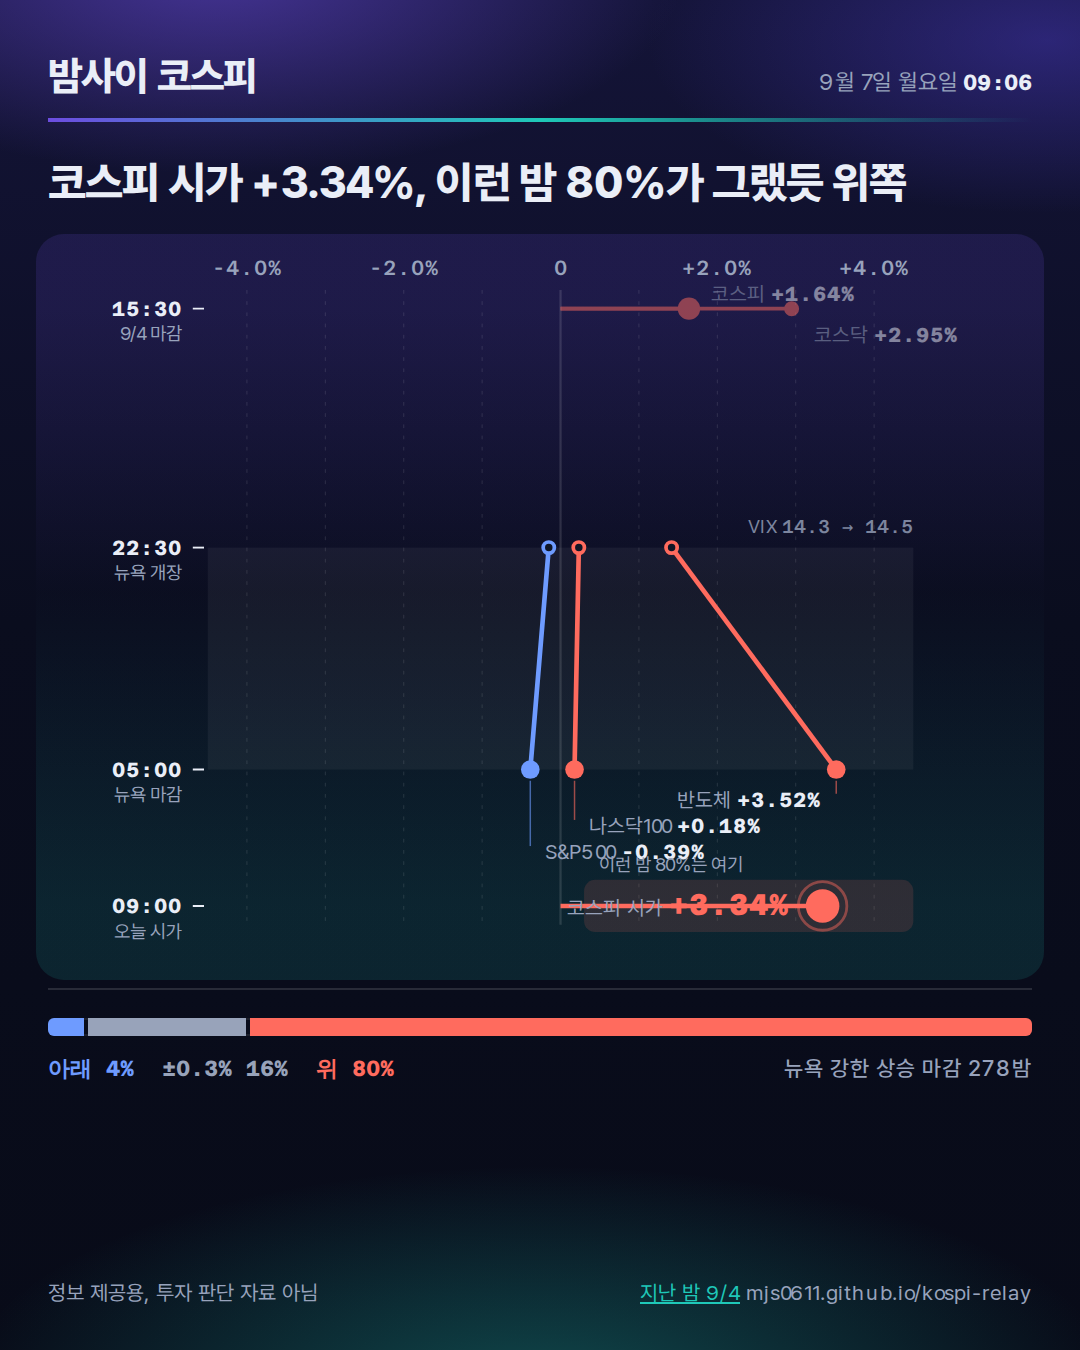
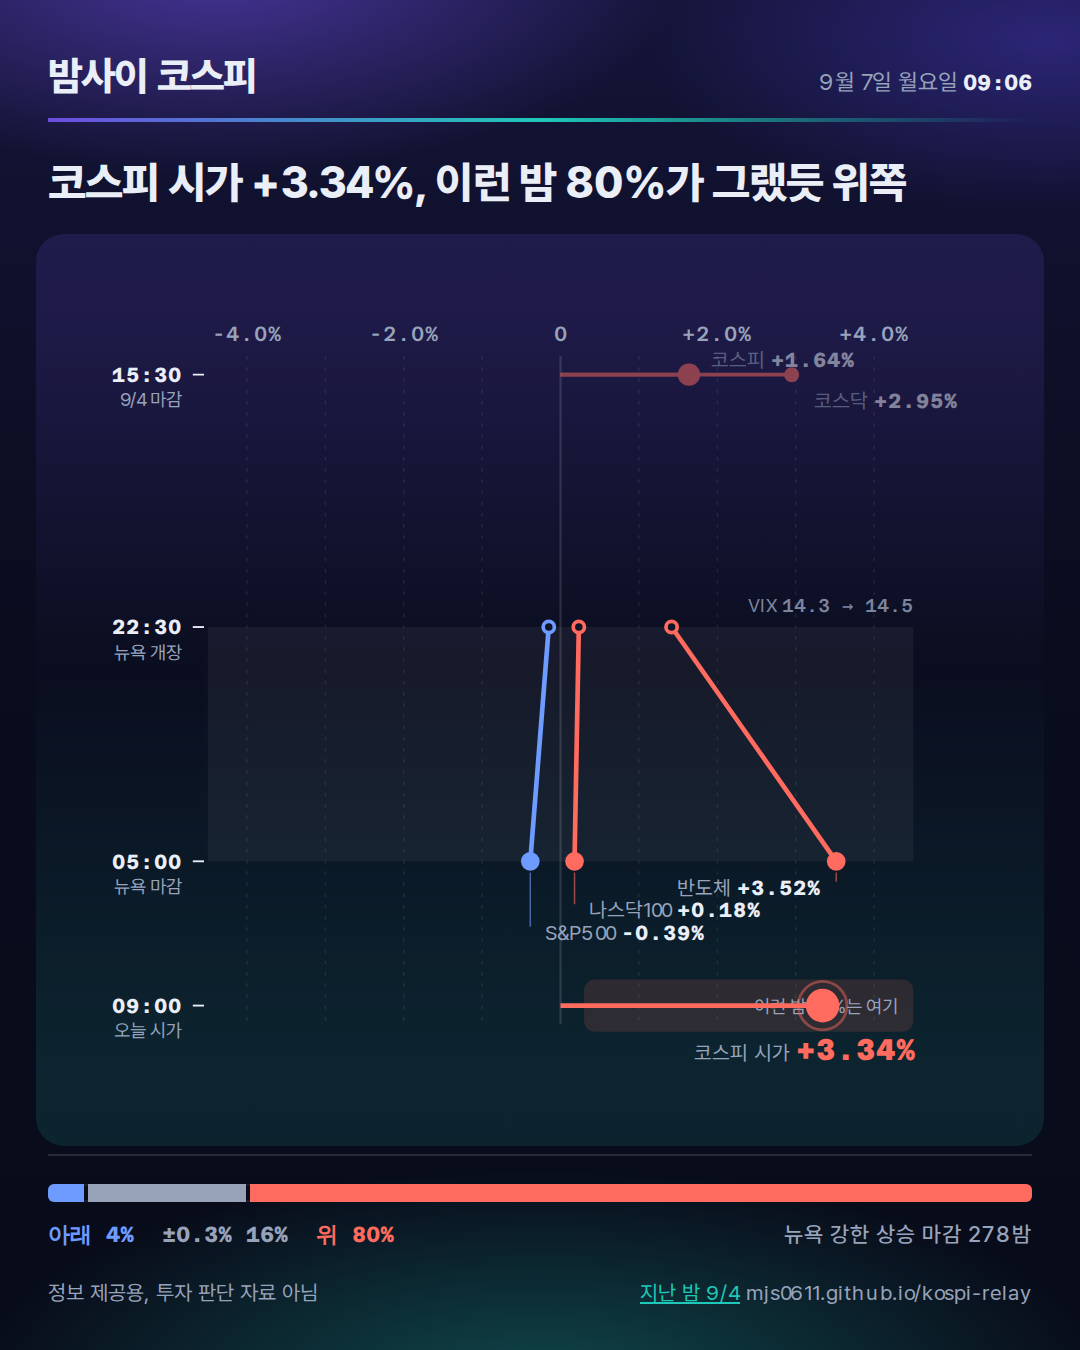
deploy: 3488b50c1c83725fb019813e3a68bd6f21e3e5a4

diff --git a/2026-09-07/index.html b/2026-09-07/index.html
@@ -25,7 +25,7 @@ h1{font-size:20px;font-weight:800;letter-spacing:-.02em;margin:0}
 .stamp{font-size:11.5px;color:var(--muted);text-align:right;line-height:1.5;letter-spacing:-.01em;white-space:nowrap}.stamp b{font-family:var(--mono);color:var(--ink);font-weight:700;font-size:11px}
 /* ★ 시간축 광원 — SVG 세로축이 곧 시간이다(위 15:30 전일 마감 → 아래 09:00 오늘 시가).
    축은 SVG 높이의 10~90% 구간(sy가 40..H-40으로 매핑)이라 스톱을 거기 맞췄다. 장식이 아니라 제목 */
-.chart{margin:10px -6px 0;border-radius:14px;overflow:hidden;
+.chart{flex:1;display:flex;align-items:center;margin:10px -6px 0;border-radius:14px;overflow:hidden;
 background:linear-gradient(180deg,rgba(108,77,224,.16) 10%,rgba(24,29,58,.05) 48%,rgba(31,200,184,.13) 90%)}
 svg{width:100%;height:auto;display:block}
 /* 헤드라인. 카드의 질문 또는 답, 한 문장. 색은 차트가 말한다. 글은 잉크 한 색 */
@@ -39,33 +39,33 @@ footer a{color:var(--dawn)}
 </style></head><body><div class="sheet">
 <header><h1>밤사이 코스피</h1><div class="stamp">9월 7일 월요일 <b>09:06</b></div></header>
 <p class="headline">코스피 시가 +3.34%, 이런 밤 80%가 그랬듯 위쪽</p>
-<div class="chart"><svg viewBox="0 0 540 400" xmlns="http://www.w3.org/2000/svg" font-family="var(--mono)" font-size="11">
-<line x1="113.0" y1="30" x2="113.0" y2="370" stroke="var(--rule)" stroke-width="0.5" stroke-dasharray="2 4"/>
+<div class="chart"><svg viewBox="0 0 540 418" xmlns="http://www.w3.org/2000/svg" font-family="var(--mono)" font-size="11">
+<line x1="113.0" y1="30" x2="113.0" y2="388" stroke="var(--rule)" stroke-width="0.5" stroke-dasharray="2 4"/>
 <text x="113.0" y="22" text-anchor="middle" fill="var(--muted)">-4.0%</text>
-<line x1="155.0" y1="30" x2="155.0" y2="370" stroke="var(--rule)" stroke-width="0.5" stroke-dasharray="2 4"/>
-<line x1="197.0" y1="30" x2="197.0" y2="370" stroke="var(--rule)" stroke-width="0.5" stroke-dasharray="2 4"/>
+<line x1="155.0" y1="30" x2="155.0" y2="388" stroke="var(--rule)" stroke-width="0.5" stroke-dasharray="2 4"/>
+<line x1="197.0" y1="30" x2="197.0" y2="388" stroke="var(--rule)" stroke-width="0.5" stroke-dasharray="2 4"/>
 <text x="197.0" y="22" text-anchor="middle" fill="var(--muted)">-2.0%</text>
-<line x1="239.0" y1="30" x2="239.0" y2="370" stroke="var(--rule)" stroke-width="0.5" stroke-dasharray="2 4"/>
-<line x1="281.0" y1="30" x2="281.0" y2="370" stroke="var(--rule)" stroke-width="1.2" />
+<line x1="239.0" y1="30" x2="239.0" y2="388" stroke="var(--rule)" stroke-width="0.5" stroke-dasharray="2 4"/>
+<line x1="281.0" y1="30" x2="281.0" y2="388" stroke="var(--rule)" stroke-width="1.2" />
 <text x="281.0" y="22" text-anchor="middle" fill="var(--muted)">0</text>
-<line x1="323.0" y1="30" x2="323.0" y2="370" stroke="var(--rule)" stroke-width="0.5" stroke-dasharray="2 4"/>
-<line x1="365.0" y1="30" x2="365.0" y2="370" stroke="var(--rule)" stroke-width="0.5" stroke-dasharray="2 4"/>
+<line x1="323.0" y1="30" x2="323.0" y2="388" stroke="var(--rule)" stroke-width="0.5" stroke-dasharray="2 4"/>
+<line x1="365.0" y1="30" x2="365.0" y2="388" stroke="var(--rule)" stroke-width="0.5" stroke-dasharray="2 4"/>
 <text x="365.0" y="22" text-anchor="middle" fill="var(--muted)">+2.0%</text>
-<line x1="407.0" y1="30" x2="407.0" y2="370" stroke="var(--rule)" stroke-width="0.5" stroke-dasharray="2 4"/>
-<line x1="449.0" y1="30" x2="449.0" y2="370" stroke="var(--rule)" stroke-width="0.5" stroke-dasharray="2 4"/>
+<line x1="407.0" y1="30" x2="407.0" y2="388" stroke="var(--rule)" stroke-width="0.5" stroke-dasharray="2 4"/>
+<line x1="449.0" y1="30" x2="449.0" y2="388" stroke="var(--rule)" stroke-width="0.5" stroke-dasharray="2 4"/>
 <text x="449.0" y="22" text-anchor="middle" fill="var(--muted)">+4.0%</text>
 <text x="78" y="44.0" text-anchor="end" fill="var(--ink)" font-weight="600">15:30</text>
 <text x="78" y="57.0" text-anchor="end" fill="var(--muted)" font-family="var(--sans)" font-size="10">9/4 마감</text>
 <line x1="84" y1="40.0" x2="90" y2="40.0" stroke="var(--ink)"/>
-<text x="78" y="172.0" text-anchor="end" fill="var(--ink)" font-weight="600">22:30</text>
-<text x="78" y="185.0" text-anchor="end" fill="var(--muted)" font-family="var(--sans)" font-size="10">뉴욕 개장</text>
-<line x1="84" y1="168.0" x2="90" y2="168.0" stroke="var(--ink)"/>
-<text x="78" y="290.9" text-anchor="end" fill="var(--ink)" font-weight="600">05:00</text>
-<text x="78" y="303.9" text-anchor="end" fill="var(--muted)" font-family="var(--sans)" font-size="10">뉴욕 마감</text>
-<line x1="84" y1="286.9" x2="90" y2="286.9" stroke="var(--ink)"/>
-<text x="78" y="364.0" text-anchor="end" fill="var(--ink)" font-weight="600">09:00</text>
-<text x="78" y="377.0" text-anchor="end" fill="var(--muted)" font-family="var(--sans)" font-size="10">오늘 시가</text>
-<line x1="84" y1="360.0" x2="90" y2="360.0" stroke="var(--ink)"/>
+<text x="78" y="179.2" text-anchor="end" fill="var(--ink)" font-weight="600">22:30</text>
+<text x="78" y="192.2" text-anchor="end" fill="var(--muted)" font-family="var(--sans)" font-size="10">뉴욕 개장</text>
+<line x1="84" y1="175.2" x2="90" y2="175.2" stroke="var(--ink)"/>
+<text x="78" y="304.7" text-anchor="end" fill="var(--ink)" font-weight="600">05:00</text>
+<text x="78" y="317.7" text-anchor="end" fill="var(--muted)" font-family="var(--sans)" font-size="10">뉴욕 마감</text>
+<line x1="84" y1="300.7" x2="90" y2="300.7" stroke="var(--ink)"/>
+<text x="78" y="382.0" text-anchor="end" fill="var(--ink)" font-weight="600">09:00</text>
+<text x="78" y="395.0" text-anchor="end" fill="var(--muted)" font-family="var(--sans)" font-size="10">오늘 시가</text>
+<line x1="84" y1="378.0" x2="90" y2="378.0" stroke="var(--ink)"/>
 <g opacity=".5">
 <line x1="281.0" y1="40.0" x2="404.8" y2="40.0" stroke="var(--up)" stroke-width="2"/>
 <circle cx="404.8" cy="40.0" r="4" fill="var(--up)"/>
@@ -74,29 +74,29 @@ footer a{color:var(--dawn)}
 <circle cx="349.8" cy="40.0" r="6" fill="var(--up)"/>
 <text x="361.8" y="36.0" text-anchor="start" fill="var(--ink)"><tspan font-family="var(--sans)" fill="var(--muted)">코스피 </tspan><tspan font-weight="700">+1.64%</tspan></text>
 </g>
-<rect x="92" y="168.0" width="378" height="118.9" fill="var(--band)"/>
-<line x1="340.5" y1="168.0" x2="428.7" y2="286.9" stroke="var(--up)" stroke-width="2.5" stroke-linecap="round"/>
-<circle cx="340.5" cy="168.0" r="3" fill="var(--paper)" stroke="var(--up)" stroke-width="2"/>
-<circle cx="428.7" cy="286.9" r="5" fill="var(--up)"/>
-<line x1="290.8" y1="168.0" x2="288.5" y2="286.9" stroke="var(--up)" stroke-width="2.5" stroke-linecap="round"/>
-<circle cx="290.8" cy="168.0" r="3" fill="var(--paper)" stroke="var(--up)" stroke-width="2"/>
-<circle cx="288.5" cy="286.9" r="5" fill="var(--up)"/>
-<line x1="274.7" y1="168.0" x2="264.8" y2="286.9" stroke="var(--down)" stroke-width="2.5" stroke-linecap="round"/>
-<circle cx="274.7" cy="168.0" r="3" fill="var(--paper)" stroke="var(--down)" stroke-width="2"/>
-<circle cx="264.8" cy="286.9" r="5" fill="var(--down)"/>
-<line x1="428.7" y1="292.9" x2="428.7" y2="299.9" stroke="var(--up)" stroke-width=".8" opacity=".6"/>
-<text x="420.7" y="306.9" text-anchor="end" fill="var(--ink)"><tspan font-family="var(--sans)" fill="var(--muted)">반도체 </tspan><tspan font-weight="700">+3.52%</tspan></text>
-<line x1="288.5" y1="292.9" x2="288.5" y2="313.9" stroke="var(--up)" stroke-width=".8" opacity=".6"/>
-<text x="296.5" y="320.9" text-anchor="start" fill="var(--ink)"><tspan font-family="var(--sans)" fill="var(--muted)">나스닥100 </tspan><tspan font-weight="700">+0.18%</tspan></text>
-<line x1="264.8" y1="292.9" x2="264.8" y2="327.9" stroke="var(--down)" stroke-width=".8" opacity=".6"/>
-<text x="272.8" y="334.9" text-anchor="start" fill="var(--ink)"><tspan font-family="var(--sans)" fill="var(--muted)">S&P500 </tspan><tspan font-weight="700">-0.39%</tspan></text>
-<text x="470" y="160.0" text-anchor="end" fill="var(--muted)" font-size="10" opacity=".8"><tspan font-family="var(--sans)">VIX </tspan>14.3 → 14.5</text>
-<rect x="293.6" y="346.0" width="176.4" height="28" rx="6" fill="var(--up)" opacity=".14"/>
-<text x="301.6" y="341.0" text-anchor="start" fill="var(--muted)" font-family="var(--sans)" font-size="10">이런 밤 80%는 여기</text>
-<line x1="281.0" y1="360.0" x2="421.4" y2="360.0" stroke="var(--up)" stroke-width="2.5"/>
-<circle cx="421.4" cy="360.0" r="9" fill="var(--up)"/>
-<circle cx="421.4" cy="360.0" r="13" fill="none" stroke="var(--up)" stroke-width="1.5" opacity=".45"/>
-<text x="403.4" y="365.0" text-anchor="end" fill="var(--ink)"><tspan font-family="var(--sans)" fill="var(--muted)" font-size="11">코스피 시가 </tspan><tspan font-weight="800" font-size="16" fill="var(--up)">+3.34%</tspan></text>
+<rect x="92" y="175.2" width="378" height="125.5" fill="var(--band)"/>
+<line x1="340.5" y1="175.2" x2="428.7" y2="300.7" stroke="var(--up)" stroke-width="2.5" stroke-linecap="round"/>
+<circle cx="340.5" cy="175.2" r="3" fill="var(--paper)" stroke="var(--up)" stroke-width="2"/>
+<circle cx="428.7" cy="300.7" r="5" fill="var(--up)"/>
+<line x1="290.8" y1="175.2" x2="288.5" y2="300.7" stroke="var(--up)" stroke-width="2.5" stroke-linecap="round"/>
+<circle cx="290.8" cy="175.2" r="3" fill="var(--paper)" stroke="var(--up)" stroke-width="2"/>
+<circle cx="288.5" cy="300.7" r="5" fill="var(--up)"/>
+<line x1="274.7" y1="175.2" x2="264.8" y2="300.7" stroke="var(--down)" stroke-width="2.5" stroke-linecap="round"/>
+<circle cx="274.7" cy="175.2" r="3" fill="var(--paper)" stroke="var(--down)" stroke-width="2"/>
+<circle cx="264.8" cy="300.7" r="5" fill="var(--down)"/>
+<line x1="428.7" y1="306.7" x2="428.7" y2="311.7" stroke="var(--up)" stroke-width=".8" opacity=".6"/>
+<text x="420.7" y="318.7" text-anchor="end" fill="var(--ink)"><tspan font-family="var(--sans)" fill="var(--muted)">반도체 </tspan><tspan font-weight="700">+3.52%</tspan></text>
+<line x1="288.5" y1="306.7" x2="288.5" y2="323.7" stroke="var(--up)" stroke-width=".8" opacity=".6"/>
+<text x="296.5" y="330.7" text-anchor="start" fill="var(--ink)"><tspan font-family="var(--sans)" fill="var(--muted)">나스닥100 </tspan><tspan font-weight="700">+0.18%</tspan></text>
+<line x1="264.8" y1="306.7" x2="264.8" y2="335.7" stroke="var(--down)" stroke-width=".8" opacity=".6"/>
+<text x="272.8" y="342.7" text-anchor="start" fill="var(--ink)"><tspan font-family="var(--sans)" fill="var(--muted)">S&P500 </tspan><tspan font-weight="700">-0.39%</tspan></text>
+<text x="470" y="167.2" text-anchor="end" fill="var(--muted)" font-size="10" opacity=".8"><tspan font-family="var(--sans)">VIX </tspan>14.3 → 14.5</text>
+<rect x="293.6" y="364.0" width="176.4" height="28" rx="6" fill="var(--up)" opacity=".14"/>
+<text x="462.0" y="382.0" text-anchor="end" fill="var(--muted)" font-family="var(--sans)" font-size="10">이런 밤 80%는 여기</text>
+<line x1="281.0" y1="378.0" x2="421.4" y2="378.0" stroke="var(--up)" stroke-width="2.5"/>
+<circle cx="421.4" cy="378.0" r="9" fill="var(--up)"/>
+<circle cx="421.4" cy="378.0" r="13" fill="none" stroke="var(--up)" stroke-width="1.5" opacity=".45"/>
+<text x="412.0" y="407.0" text-anchor="middle" fill="var(--ink)"><tspan font-family="var(--sans)" fill="var(--muted)" font-size="11">코스피 시가 </tspan><tspan font-weight="800" font-size="16" fill="var(--up)">+3.34%</tspan></text>
 </svg></div>
 <section class="freq"><div class="bar"><div class="seg" style="flex:10;background:var(--down)"></div><div class="seg" style="flex:45;background:var(--flat)"></div><div class="seg" style="flex:223;background:var(--up)"></div></div><p class="legend"><span style="color:var(--down)">아래 4%</span><span style="color:var(--flat)">±0.3% 16%</span><span style="color:var(--up)">위 80%</span><span class="n">뉴욕 강한 상승 마감 278밤</span></p></section>
 <footer><span>정보 제공용, 투자 판단 자료 아님</span><span style="white-space:nowrap"><a href="../2026-09-04/">지난 밤 9/4</a> mjs0611.github.io/kospi-relay</span></footer>

diff --git a/index.html b/index.html
@@ -25,7 +25,7 @@ h1{font-size:20px;font-weight:800;letter-spacing:-.02em;margin:0}
 .stamp{font-size:11.5px;color:var(--muted);text-align:right;line-height:1.5;letter-spacing:-.01em;white-space:nowrap}.stamp b{font-family:var(--mono);color:var(--ink);font-weight:700;font-size:11px}
 /* ★ 시간축 광원 — SVG 세로축이 곧 시간이다(위 15:30 전일 마감 → 아래 09:00 오늘 시가).
    축은 SVG 높이의 10~90% 구간(sy가 40..H-40으로 매핑)이라 스톱을 거기 맞췄다. 장식이 아니라 제목 */
-.chart{margin:10px -6px 0;border-radius:14px;overflow:hidden;
+.chart{flex:1;display:flex;align-items:center;margin:10px -6px 0;border-radius:14px;overflow:hidden;
 background:linear-gradient(180deg,rgba(108,77,224,.16) 10%,rgba(24,29,58,.05) 48%,rgba(31,200,184,.13) 90%)}
 svg{width:100%;height:auto;display:block}
 /* 헤드라인. 카드의 질문 또는 답, 한 문장. 색은 차트가 말한다. 글은 잉크 한 색 */
@@ -39,33 +39,33 @@ footer a{color:var(--dawn)}
 </style></head><body><div class="sheet">
 <header><h1>밤사이 코스피</h1><div class="stamp">9월 7일 월요일 <b>09:06</b></div></header>
 <p class="headline">코스피 시가 +3.34%, 이런 밤 80%가 그랬듯 위쪽</p>
-<div class="chart"><svg viewBox="0 0 540 400" xmlns="http://www.w3.org/2000/svg" font-family="var(--mono)" font-size="11">
-<line x1="113.0" y1="30" x2="113.0" y2="370" stroke="var(--rule)" stroke-width="0.5" stroke-dasharray="2 4"/>
+<div class="chart"><svg viewBox="0 0 540 418" xmlns="http://www.w3.org/2000/svg" font-family="var(--mono)" font-size="11">
+<line x1="113.0" y1="30" x2="113.0" y2="388" stroke="var(--rule)" stroke-width="0.5" stroke-dasharray="2 4"/>
 <text x="113.0" y="22" text-anchor="middle" fill="var(--muted)">-4.0%</text>
-<line x1="155.0" y1="30" x2="155.0" y2="370" stroke="var(--rule)" stroke-width="0.5" stroke-dasharray="2 4"/>
-<line x1="197.0" y1="30" x2="197.0" y2="370" stroke="var(--rule)" stroke-width="0.5" stroke-dasharray="2 4"/>
+<line x1="155.0" y1="30" x2="155.0" y2="388" stroke="var(--rule)" stroke-width="0.5" stroke-dasharray="2 4"/>
+<line x1="197.0" y1="30" x2="197.0" y2="388" stroke="var(--rule)" stroke-width="0.5" stroke-dasharray="2 4"/>
 <text x="197.0" y="22" text-anchor="middle" fill="var(--muted)">-2.0%</text>
-<line x1="239.0" y1="30" x2="239.0" y2="370" stroke="var(--rule)" stroke-width="0.5" stroke-dasharray="2 4"/>
-<line x1="281.0" y1="30" x2="281.0" y2="370" stroke="var(--rule)" stroke-width="1.2" />
+<line x1="239.0" y1="30" x2="239.0" y2="388" stroke="var(--rule)" stroke-width="0.5" stroke-dasharray="2 4"/>
+<line x1="281.0" y1="30" x2="281.0" y2="388" stroke="var(--rule)" stroke-width="1.2" />
 <text x="281.0" y="22" text-anchor="middle" fill="var(--muted)">0</text>
-<line x1="323.0" y1="30" x2="323.0" y2="370" stroke="var(--rule)" stroke-width="0.5" stroke-dasharray="2 4"/>
-<line x1="365.0" y1="30" x2="365.0" y2="370" stroke="var(--rule)" stroke-width="0.5" stroke-dasharray="2 4"/>
+<line x1="323.0" y1="30" x2="323.0" y2="388" stroke="var(--rule)" stroke-width="0.5" stroke-dasharray="2 4"/>
+<line x1="365.0" y1="30" x2="365.0" y2="388" stroke="var(--rule)" stroke-width="0.5" stroke-dasharray="2 4"/>
 <text x="365.0" y="22" text-anchor="middle" fill="var(--muted)">+2.0%</text>
-<line x1="407.0" y1="30" x2="407.0" y2="370" stroke="var(--rule)" stroke-width="0.5" stroke-dasharray="2 4"/>
-<line x1="449.0" y1="30" x2="449.0" y2="370" stroke="var(--rule)" stroke-width="0.5" stroke-dasharray="2 4"/>
+<line x1="407.0" y1="30" x2="407.0" y2="388" stroke="var(--rule)" stroke-width="0.5" stroke-dasharray="2 4"/>
+<line x1="449.0" y1="30" x2="449.0" y2="388" stroke="var(--rule)" stroke-width="0.5" stroke-dasharray="2 4"/>
 <text x="449.0" y="22" text-anchor="middle" fill="var(--muted)">+4.0%</text>
 <text x="78" y="44.0" text-anchor="end" fill="var(--ink)" font-weight="600">15:30</text>
 <text x="78" y="57.0" text-anchor="end" fill="var(--muted)" font-family="var(--sans)" font-size="10">9/4 마감</text>
 <line x1="84" y1="40.0" x2="90" y2="40.0" stroke="var(--ink)"/>
-<text x="78" y="172.0" text-anchor="end" fill="var(--ink)" font-weight="600">22:30</text>
-<text x="78" y="185.0" text-anchor="end" fill="var(--muted)" font-family="var(--sans)" font-size="10">뉴욕 개장</text>
-<line x1="84" y1="168.0" x2="90" y2="168.0" stroke="var(--ink)"/>
-<text x="78" y="290.9" text-anchor="end" fill="var(--ink)" font-weight="600">05:00</text>
-<text x="78" y="303.9" text-anchor="end" fill="var(--muted)" font-family="var(--sans)" font-size="10">뉴욕 마감</text>
-<line x1="84" y1="286.9" x2="90" y2="286.9" stroke="var(--ink)"/>
-<text x="78" y="364.0" text-anchor="end" fill="var(--ink)" font-weight="600">09:00</text>
-<text x="78" y="377.0" text-anchor="end" fill="var(--muted)" font-family="var(--sans)" font-size="10">오늘 시가</text>
-<line x1="84" y1="360.0" x2="90" y2="360.0" stroke="var(--ink)"/>
+<text x="78" y="179.2" text-anchor="end" fill="var(--ink)" font-weight="600">22:30</text>
+<text x="78" y="192.2" text-anchor="end" fill="var(--muted)" font-family="var(--sans)" font-size="10">뉴욕 개장</text>
+<line x1="84" y1="175.2" x2="90" y2="175.2" stroke="var(--ink)"/>
+<text x="78" y="304.7" text-anchor="end" fill="var(--ink)" font-weight="600">05:00</text>
+<text x="78" y="317.7" text-anchor="end" fill="var(--muted)" font-family="var(--sans)" font-size="10">뉴욕 마감</text>
+<line x1="84" y1="300.7" x2="90" y2="300.7" stroke="var(--ink)"/>
+<text x="78" y="382.0" text-anchor="end" fill="var(--ink)" font-weight="600">09:00</text>
+<text x="78" y="395.0" text-anchor="end" fill="var(--muted)" font-family="var(--sans)" font-size="10">오늘 시가</text>
+<line x1="84" y1="378.0" x2="90" y2="378.0" stroke="var(--ink)"/>
 <g opacity=".5">
 <line x1="281.0" y1="40.0" x2="404.8" y2="40.0" stroke="var(--up)" stroke-width="2"/>
 <circle cx="404.8" cy="40.0" r="4" fill="var(--up)"/>
@@ -74,29 +74,29 @@ footer a{color:var(--dawn)}
 <circle cx="349.8" cy="40.0" r="6" fill="var(--up)"/>
 <text x="361.8" y="36.0" text-anchor="start" fill="var(--ink)"><tspan font-family="var(--sans)" fill="var(--muted)">코스피 </tspan><tspan font-weight="700">+1.64%</tspan></text>
 </g>
-<rect x="92" y="168.0" width="378" height="118.9" fill="var(--band)"/>
-<line x1="340.5" y1="168.0" x2="428.7" y2="286.9" stroke="var(--up)" stroke-width="2.5" stroke-linecap="round"/>
-<circle cx="340.5" cy="168.0" r="3" fill="var(--paper)" stroke="var(--up)" stroke-width="2"/>
-<circle cx="428.7" cy="286.9" r="5" fill="var(--up)"/>
-<line x1="290.8" y1="168.0" x2="288.5" y2="286.9" stroke="var(--up)" stroke-width="2.5" stroke-linecap="round"/>
-<circle cx="290.8" cy="168.0" r="3" fill="var(--paper)" stroke="var(--up)" stroke-width="2"/>
-<circle cx="288.5" cy="286.9" r="5" fill="var(--up)"/>
-<line x1="274.7" y1="168.0" x2="264.8" y2="286.9" stroke="var(--down)" stroke-width="2.5" stroke-linecap="round"/>
-<circle cx="274.7" cy="168.0" r="3" fill="var(--paper)" stroke="var(--down)" stroke-width="2"/>
-<circle cx="264.8" cy="286.9" r="5" fill="var(--down)"/>
-<line x1="428.7" y1="292.9" x2="428.7" y2="299.9" stroke="var(--up)" stroke-width=".8" opacity=".6"/>
-<text x="420.7" y="306.9" text-anchor="end" fill="var(--ink)"><tspan font-family="var(--sans)" fill="var(--muted)">반도체 </tspan><tspan font-weight="700">+3.52%</tspan></text>
-<line x1="288.5" y1="292.9" x2="288.5" y2="313.9" stroke="var(--up)" stroke-width=".8" opacity=".6"/>
-<text x="296.5" y="320.9" text-anchor="start" fill="var(--ink)"><tspan font-family="var(--sans)" fill="var(--muted)">나스닥100 </tspan><tspan font-weight="700">+0.18%</tspan></text>
-<line x1="264.8" y1="292.9" x2="264.8" y2="327.9" stroke="var(--down)" stroke-width=".8" opacity=".6"/>
-<text x="272.8" y="334.9" text-anchor="start" fill="var(--ink)"><tspan font-family="var(--sans)" fill="var(--muted)">S&P500 </tspan><tspan font-weight="700">-0.39%</tspan></text>
-<text x="470" y="160.0" text-anchor="end" fill="var(--muted)" font-size="10" opacity=".8"><tspan font-family="var(--sans)">VIX </tspan>14.3 → 14.5</text>
-<rect x="293.6" y="346.0" width="176.4" height="28" rx="6" fill="var(--up)" opacity=".14"/>
-<text x="301.6" y="341.0" text-anchor="start" fill="var(--muted)" font-family="var(--sans)" font-size="10">이런 밤 80%는 여기</text>
-<line x1="281.0" y1="360.0" x2="421.4" y2="360.0" stroke="var(--up)" stroke-width="2.5"/>
-<circle cx="421.4" cy="360.0" r="9" fill="var(--up)"/>
-<circle cx="421.4" cy="360.0" r="13" fill="none" stroke="var(--up)" stroke-width="1.5" opacity=".45"/>
-<text x="403.4" y="365.0" text-anchor="end" fill="var(--ink)"><tspan font-family="var(--sans)" fill="var(--muted)" font-size="11">코스피 시가 </tspan><tspan font-weight="800" font-size="16" fill="var(--up)">+3.34%</tspan></text>
+<rect x="92" y="175.2" width="378" height="125.5" fill="var(--band)"/>
+<line x1="340.5" y1="175.2" x2="428.7" y2="300.7" stroke="var(--up)" stroke-width="2.5" stroke-linecap="round"/>
+<circle cx="340.5" cy="175.2" r="3" fill="var(--paper)" stroke="var(--up)" stroke-width="2"/>
+<circle cx="428.7" cy="300.7" r="5" fill="var(--up)"/>
+<line x1="290.8" y1="175.2" x2="288.5" y2="300.7" stroke="var(--up)" stroke-width="2.5" stroke-linecap="round"/>
+<circle cx="290.8" cy="175.2" r="3" fill="var(--paper)" stroke="var(--up)" stroke-width="2"/>
+<circle cx="288.5" cy="300.7" r="5" fill="var(--up)"/>
+<line x1="274.7" y1="175.2" x2="264.8" y2="300.7" stroke="var(--down)" stroke-width="2.5" stroke-linecap="round"/>
+<circle cx="274.7" cy="175.2" r="3" fill="var(--paper)" stroke="var(--down)" stroke-width="2"/>
+<circle cx="264.8" cy="300.7" r="5" fill="var(--down)"/>
+<line x1="428.7" y1="306.7" x2="428.7" y2="311.7" stroke="var(--up)" stroke-width=".8" opacity=".6"/>
+<text x="420.7" y="318.7" text-anchor="end" fill="var(--ink)"><tspan font-family="var(--sans)" fill="var(--muted)">반도체 </tspan><tspan font-weight="700">+3.52%</tspan></text>
+<line x1="288.5" y1="306.7" x2="288.5" y2="323.7" stroke="var(--up)" stroke-width=".8" opacity=".6"/>
+<text x="296.5" y="330.7" text-anchor="start" fill="var(--ink)"><tspan font-family="var(--sans)" fill="var(--muted)">나스닥100 </tspan><tspan font-weight="700">+0.18%</tspan></text>
+<line x1="264.8" y1="306.7" x2="264.8" y2="335.7" stroke="var(--down)" stroke-width=".8" opacity=".6"/>
+<text x="272.8" y="342.7" text-anchor="start" fill="var(--ink)"><tspan font-family="var(--sans)" fill="var(--muted)">S&P500 </tspan><tspan font-weight="700">-0.39%</tspan></text>
+<text x="470" y="167.2" text-anchor="end" fill="var(--muted)" font-size="10" opacity=".8"><tspan font-family="var(--sans)">VIX </tspan>14.3 → 14.5</text>
+<rect x="293.6" y="364.0" width="176.4" height="28" rx="6" fill="var(--up)" opacity=".14"/>
+<text x="462.0" y="382.0" text-anchor="end" fill="var(--muted)" font-family="var(--sans)" font-size="10">이런 밤 80%는 여기</text>
+<line x1="281.0" y1="378.0" x2="421.4" y2="378.0" stroke="var(--up)" stroke-width="2.5"/>
+<circle cx="421.4" cy="378.0" r="9" fill="var(--up)"/>
+<circle cx="421.4" cy="378.0" r="13" fill="none" stroke="var(--up)" stroke-width="1.5" opacity=".45"/>
+<text x="412.0" y="407.0" text-anchor="middle" fill="var(--ink)"><tspan font-family="var(--sans)" fill="var(--muted)" font-size="11">코스피 시가 </tspan><tspan font-weight="800" font-size="16" fill="var(--up)">+3.34%</tspan></text>
 </svg></div>
 <section class="freq"><div class="bar"><div class="seg" style="flex:10;background:var(--down)"></div><div class="seg" style="flex:45;background:var(--flat)"></div><div class="seg" style="flex:223;background:var(--up)"></div></div><p class="legend"><span style="color:var(--down)">아래 4%</span><span style="color:var(--flat)">±0.3% 16%</span><span style="color:var(--up)">위 80%</span><span class="n">뉴욕 강한 상승 마감 278밤</span></p></section>
 <footer><span>정보 제공용, 투자 판단 자료 아님</span><span style="white-space:nowrap"><a href="./2026-09-04/">지난 밤 9/4</a> mjs0611.github.io/kospi-relay</span></footer>
